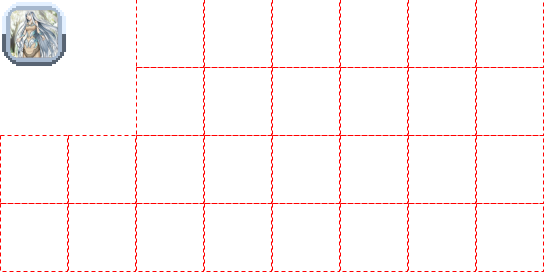
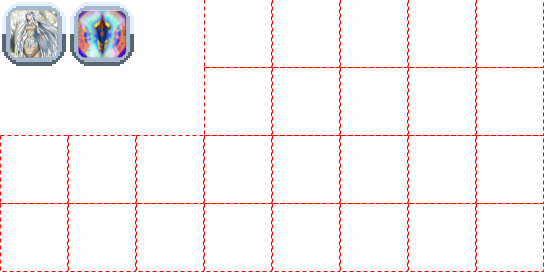
Add colored text in descriptions, Gagagashield

Changed region(s): [[0.125, 0.0, 0.25, 0.2647], [0.25, 0.2353, 0.375, 0.2647]]

diff --git a/README.md b/README.md
@@ -94,3 +94,8 @@ Destroy all selected playing cards.
 **Consumable**
 
 Change up to 2 selected playing card's suits to their opposite (Spades <-> Hearts, Clubs <-> Diamonds).
+
+## Gagagashield
+**Consumable**
+
+Give 1 joker eternal until the end of the round
